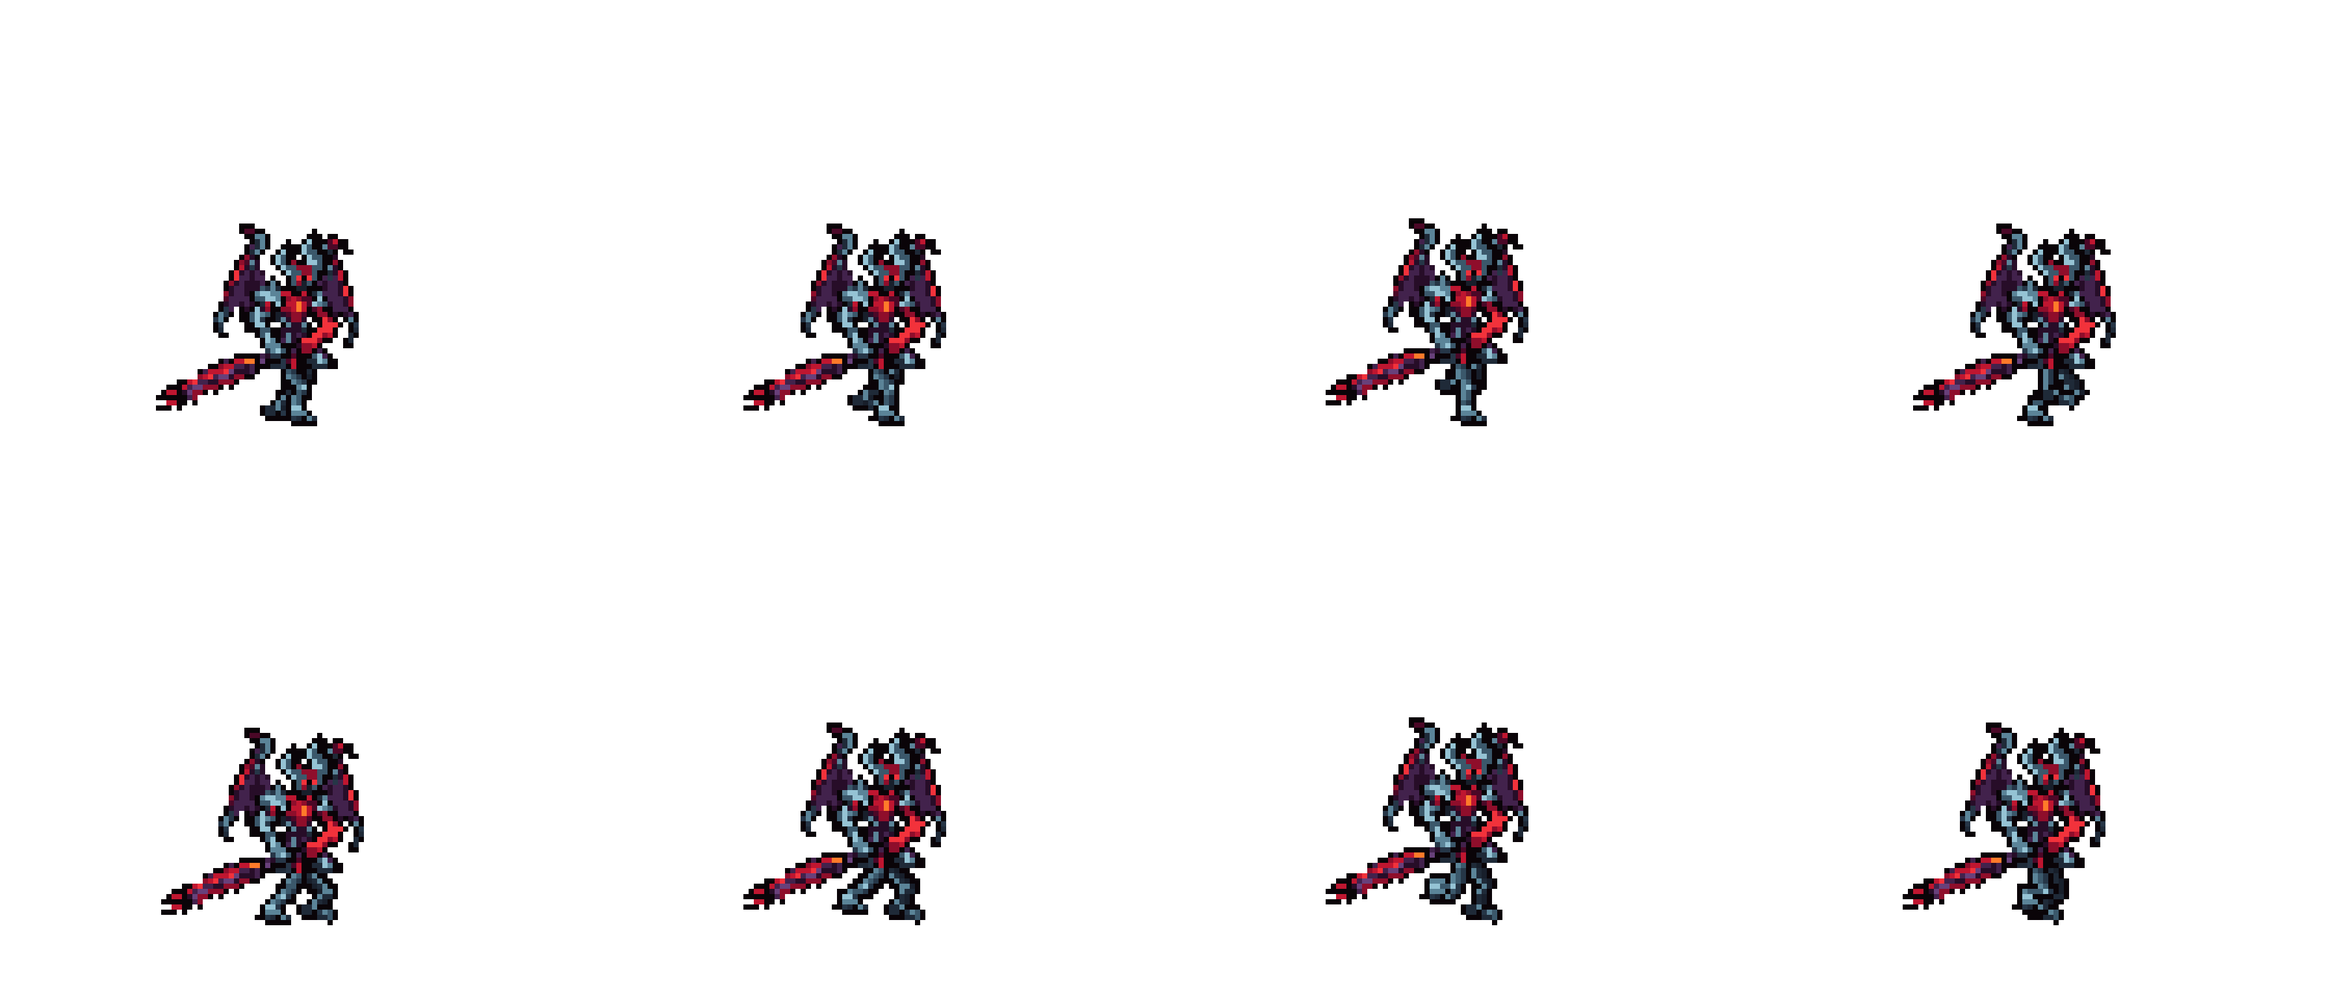
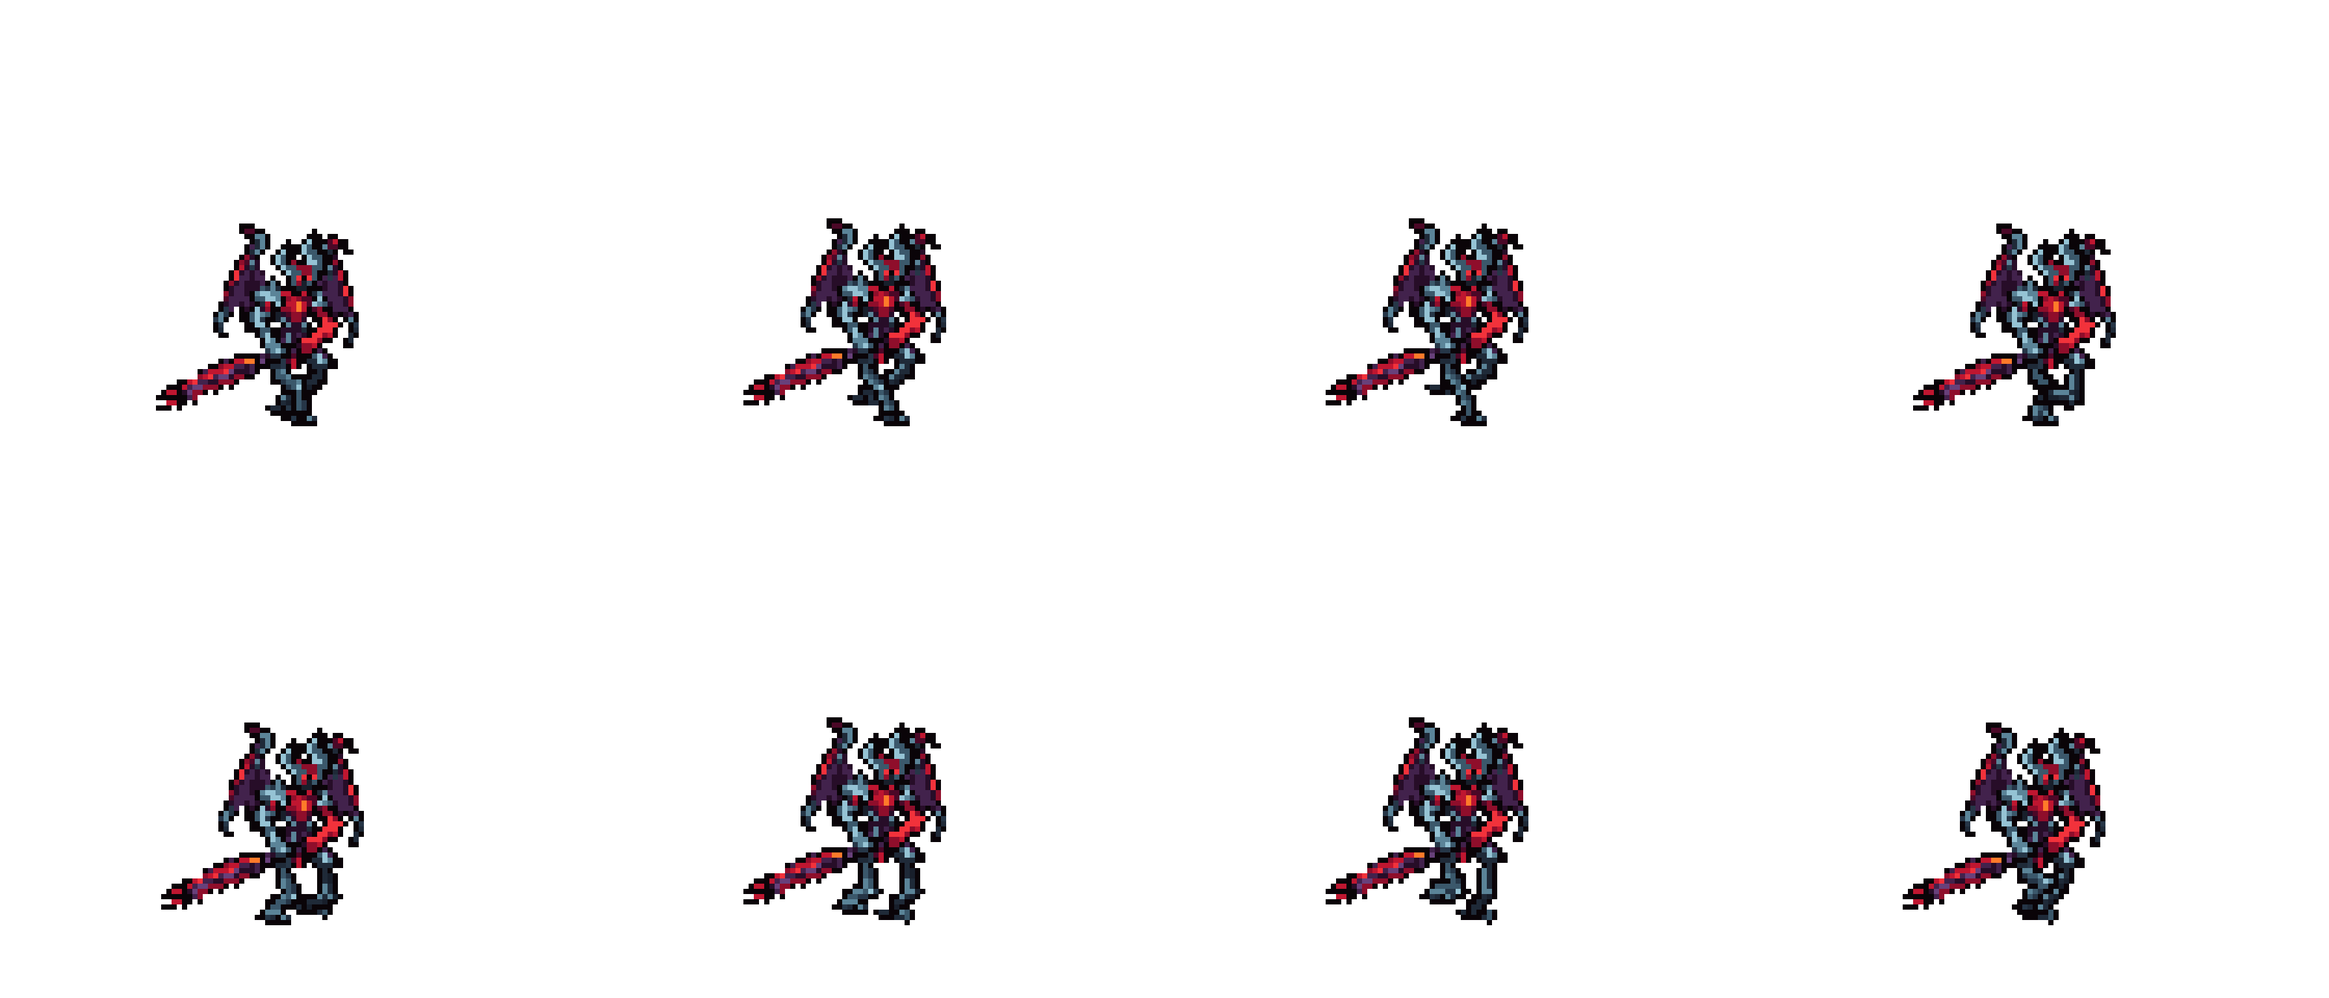
Aatrox: run legs from the idle's hips (interim); chain 0.2.2 ring check; redo2 prompts
- The run's legs leave the waist where the idle's do (hips 8 apart, no
  skirt: 「怎么看起来剑魔像穿了裙子？？」), knees by two-bone IK on League's
  feet, the shin drawn over its boot. The user still finds it off and asked
  for Codex (REDO2.md: the legs on a per-frame skeleton, plus World
  Ender's attack and Q casts with League's wings added).
- league_aatrox_chain 0.2.2: w_tether lasts 6 ticks and the watch logs on
  tick 4 whether the data removed it (RING played / NOT PLAYED), to tell
  an unread flag from an unseen picture (「W在游戏里还是看不出」); the log
  banner prints the crate version.

diff --git a/tools/art/rig_aatrox.py b/tools/art/rig_aatrox.py
@@ -84,21 +84,24 @@ ULT_ARMS = [None, (165, (53, 83), (72, 79), (75, 80)), (150, (49, 81), (73, 78),
 FAR_ROOT = (69, 75)                  # where the drawn wings join the back (behind the shoulders)
 NEAR_ROOT = (58, 75)
 # the run (League's Unsheath_run01, 8 frames, 2026-10-04): the sheared run (each whole leg leaned) broke at the knee as
-# it played (the user: 「是膝盖那和下面的小腿 走路的时候感觉脱节的」) and splayed its toes. Now League's own legs:
-# tools/lol/pose_joints.py assets/source/aatrox/poses.json --tag run --joints L_Hip,L_KneeLower,L_Foot,L_Toe,R_Hip,
-# R_KneeLower,R_Foot,R_Toe --json assets/source/aatrox/run_joints.json (game px from the pivot), each leg's knee and ankle
-# taken from its hip and scaled to the design's leg (LEG_SCALE: across 0.65, down 0.5 - the hip 10 rows over the
-# soles), drawn as one limb through the knee (thigh LEG_CORE, shin LEG_SHIN thick) in the leg's own colours with a light
-# on the knee plate, and the leg's own boot from the design at the ankle (the lit one mirrored: toe forward). League's
-# L leg is the design's dark right-hand one, R the lit left-hand one; the hips 3 apart under the skirt so the feet
-# cross (dark minus lit foot: -3, -4, -2, +4, +9, +10, +9, +3); the knee nearer the camera (League's z) drawn over the
-# other with its outline; the lowest sole on the soles' row (the body down 0-2 rows with it).
+# it played (the user: 「是膝盖那和下面的小腿 走路的时候感觉脱节的」); legs from hips 3 apart then read as a skirt under the
+# wide waist (「怎么看起来剑魔像穿了裙子？？」, the idle's legs pointed at as right). Now: the hips where the idle's legs
+# leave the waist (LEG_HIPS, 8 apart: the thighs stay apart), the feet where League's run puts them under the body
+# (tools/lol/pose_joints.py assets/source/aatrox/poses.json --tag run --joints L_Hip,L_KneeLower,L_Foot,L_Toe,R_Hip,
+# R_KneeLower,R_Foot,R_Toe --json assets/source/aatrox/run_joints.json: game px from the pivot; across from the hips'
+# middle x LEG_SCALE[0], down from each hip x LEG_SCALE[1]), each knee by two-bone IK (THIGH, SHIN) bending forward;
+# each leg one limb through its knee (LEG_CORE, LEG_SHIN thick: the idle's 2-3 squares) in its own colours with a
+# light on the knee plate; its own boot's foot (the lit one mirrored, toe forward) drawn first and the shin over its
+# top. League's L leg is the design's dark right-hand one, R the lit left-hand one; dark minus lit foot: -3, -4, -4,
+# +2, +7, +9, +7, +2 (they cross, 9 apart at most); the knee nearer the camera (League's z) drawn over the other with
+# its outline; the lowest sole on the soles' row (the body down 0-1 rows with it).
 RUN_JOINTS = os.path.join(ROOT, "assets", "source", "aatrox", "run_joints.json")
-LEG_HIPS = {"L": (65.5, 88.5), "R": (62.5, 88.5)}
+LEG_HIPS = {"L": (68.0, 88.5), "R": (60.0, 88.5)}
 LEG_MATS = {"L": ("2", "0", "d"), "R": ("2", "1", "e")}
 LEG_KNEE = {"L": "2", "R": "3"}
-LEG_SCALE = (0.65, 0.5)
-LEG_CORE, LEG_SHIN = 1.2, 0.95
+LEG_SCALE = (0.65, 0.55)
+THIGH, SHIN = 4.6, 4.2
+LEG_CORE, LEG_SHIN = 1.0, 0.85
 LEG_TOP = 88                         # the legs below this row move; the hips and the skirt above stay
 NEAR_COLS = (48, 64)                 # the lit (left) leg's columns, the dark (right) leg's
 FAR_COLS = (64, 80)
@@ -433,16 +436,16 @@ def frame(tag, i, des, sm):
 
 
 def boots(des):
-    """The design's boots, toe forward (the dark leg's as drawn, the lit one's mirrored), with their ankle (the top
-    row's middle)."""
+    """The design's feet, toe forward (the dark leg's as drawn, the lit one's mirrored), with their ankle (the middle of
+    the top row's coloured squares)."""
     out = {}
     for side, (c0, c1), flip in (("L", FAR_COLS, False), ("R", NEAR_COLS, True)):
-        part = des[96:100, c0:c1].copy()
+        part = des[97:100, c0:c1].copy()                 # the foot: the boot's last three rows
         if flip:
             part = part[:, ::-1]
         cols = np.nonzero((part[..., 3] > 0).any(0))[0]
         part = part[:, cols.min():cols.max() + 1]
-        top = np.nonzero(part[0, :, 3] > 0)[0]
+        top = np.nonzero((part[0, :, 3] > 0) & ~(part[0, :, :3] == D.COL["o"]).all(-1))[0]
         out[side] = (part, ((top.min() + top.max()) / 2.0, 0.0))
     return out
 
@@ -490,31 +493,48 @@ def stamp_boot(a, part, anchor, at, ring_over):
             a[y, x] = part[r, c]
 
 
+def knee_ik(hip, foot):
+    """The knee for a hip and an ankle (THIGH, SHIN), bending forward; an ankle out of reach is pulled in."""
+    v = foot - hip
+    d = float(np.hypot(*v))
+    if d > THIGH + SHIN - 0.05:
+        d = THIGH + SHIN - 0.05
+        foot = hip + v / np.hypot(*v) * d
+    u = (foot - hip) / d
+    a = (THIGH * THIGH - SHIN * SHIN + d * d) / (2 * d)
+    n = np.array([-u[1], u[0]])
+    if n[0] < 0:
+        n = -n
+    return hip + u * a + n * math.sqrt(max(0.0, THIGH * THIGH - a * a)), foot
+
+
 def run(i, des, sm):
     """League's run legs on the design (RUN_JOINTS): the upper body, the arms holding the blade, the wings and the head
     are the design's own; each leg one limb through its knee, its boot at the ankle, the nearer one over the other."""
     with open(lp(RUN_JOINTS), encoding="utf-8") as f:
         j = json.load(f)[i]["joints"]
     bt = boots(des)
+    hmid = (np.array(j["L_Hip"][:2]) + np.array(j["R_Hip"][:2])) / 2
+    mid = (LEG_HIPS["L"][0] + LEG_HIPS["R"][0]) / 2
     legs = []
     for s in ("L", "R"):
-        H, K, F = (np.array(j[f"{s}_{n}"][:2]) for n in ("Hip", "KneeLower", "Foot"))
+        F = np.array(j[f"{s}_Foot"][:2])
         hip = np.array(LEG_HIPS[s])
-        k = hip + np.array(LEG_SCALE) * (K - H)
-        ft = hip + np.array(LEG_SCALE) * (F - H)
-        legs.append((j[f"{s}_KneeLower"][2], s, hip, k, ft))
-    low = max(ft[1] + bt[s][0].shape[0] - 1 for _, s, _, _, ft in legs)
+        foot = np.array([mid + LEG_SCALE[0] * (F[0] - hmid[0]), hip[1] + LEG_SCALE[1] * (F[1] - j[f"{s}_Hip"][1])])
+        k, foot = knee_ik(hip, foot)
+        legs.append((j[f"{s}_KneeLower"][2], s, hip, k, foot))
+    low = max(ft[1] + bt[s][0].shape[0] for _, s, _, _, ft in legs)
     dy = int(round(max(-1.0, min(2.0, 99 - low))))
     upper = des.copy()
     upper[LEG_TOP:] = 0
     upper[sm] = des[sm]                                   # the blade hangs below the hips with the fist
     out = np.zeros_like(des)
+    d = np.array([0.0, float(dy)])
     for n, (_, s, hip, k, ft) in enumerate(sorted(legs, key=lambda t: t[0])):
-        d = np.array([0.0, float(dy)])
+        part, anchor = bt[s]
+        stamp_boot(out, part, anchor, ft + d + np.array([0.0, 1.0]), ring_over=n > 0)
         leg_limb(out, [hip + d, k + d, ft + d], LEG_MATS[s], (LEG_CORE, LEG_SHIN), ring_over=n > 0)
         out[int(round(k[1] + dy)), int(round(k[0]))] = rgba(LEG_KNEE[s])     # the knee plate's light
-        part, anchor = bt[s]
-        stamp_boot(out, part, anchor, ft + d, ring_over=n > 0)
     return over(out, upper, 0, dy)
 
 

diff --git a/addons/league_aatrox_chain/src/lib.rs b/addons/league_aatrox_chain/src/lib.rs
@@ -1,4 +1,4 @@
-//! 剑魔 W 锁链附加包 v0.2.1：W「恶火束链」照 League 原版。
+//! 剑魔 W 锁链附加包 v0.2.2：W「恶火束链」照 League 原版。
 //!
 //! 主包的 W（数据）：锁链停在第一个敌人身上（伤害 + 减速 1.5 秒）；打中英雄时在落点放圈，1.5 秒后那个英雄
 //! 再受一次伤害、被拉向剑魔。League 的两条数据写不出来：走出圈锁链就断、拉回的是圈的中心。
@@ -61,6 +61,10 @@ pub const PULL: &str = "league_aatrox_w_pull";
 pub const PULL_C: &str = "league_aatrox_w_pull_c";
 /// 标记留多久：打中时的标记数据层同一 tick 和下一 tick 读，拉回的在 `READ_AT` 读。
 pub const HIT_T: usize = 3;
+/// `w_tether` 留得久一点：数据播圈时把它删掉（RemoveCasterBuff），`watch` 在第 `SEEN_AT` tick 看它还在不在，
+/// 写进日志——游戏里「W 看不出」（2026-10-04）时分清是数据没读到本包的标记，还是画面没显示（v0.2.2）。
+pub const TETHER_T: usize = 6;
+pub const SEEN_AT: usize = 4;
 pub const PULL_T: usize = 6;
 /// 拉回的速度（每 tick），到圈心这么近就算到了。
 pub const PULL_SPEED: f64 = 2_500.0;
@@ -309,7 +313,7 @@ fn tether(sim: &mut StableSim<'_>, me: usize, t: usize, kind: Kind) {
     let c = found.unwrap_or_else(|| center_of(here, from));
     let snap = sim.tick() + HOLD;
     sim.add_buff(t, &BuffV1::timed(&on_name(c, me, snap), HOLD + 5));
-    flag(sim, me, TETHER, HIT_T);
+    flag(sim, me, TETHER, TETHER_T);
     let linked = link(sim, me, here, c);
     queue(sim, "watch", t, pos_input(c), 1);
     wlog(format!(
@@ -367,6 +371,11 @@ fn watch(sim: &mut StableSim<'_>, me: usize, input: InputTargetV1) {
     }
     let here = fpos(e.pos());
     let d = dist(here, c);
+    if HOLD.saturating_sub(snap.saturating_sub(tick)) == SEEN_AT {
+        let left = names(sim, a).iter().any(|n| n == TETHER);
+        wlog(format!("{} RING {}: the data {} the w_tether flag", head(sim, me),
+                     if left { "NOT PLAYED" } else { "played" }, if left { "did not read" } else { "read and removed" }));
+    }
     if outside(here, c) {
         sim.entity_remove_buff(me, &name);
         let on_me = InputTargetV1::target(me);
@@ -502,7 +511,8 @@ fn init(host: &StableHost) -> StableMod {
     let _ = std::fs::rename(&*LOG_PATH, LOG_PATH.with_extension("prev.log"));
     let v = host.game_version();
     wlog(format!(
-        "=== {ID} v0.2 (League's Infernal Chains; pictures and hits in data) loaded: game {}.{}.{} abi {} log={} ===",
+        "=== {ID} v{} (League's Infernal Chains; pictures and hits in data) loaded: game {}.{}.{} abi {} log={} ===",
+        env!("CARGO_PKG_VERSION"),
         v.major,
         v.minor,
         v.patch,

diff --git a/assets/source/aatrox/REDO2.md b/assets/source/aatrox/REDO2.md
@@ -1,0 +1,61 @@
+# 剑魔：重画跑步的腿 + 开大期间的普攻和 Q 加翅膀（给 Codex 的补画包）
+
+> 上一包（aatrox_redo_pack）的 Q1–Q3、变身和翅膀循环用户已经通过（「其他都很完美」），**这些不要动**。这次只有两件事：
+> 1. **跑步的腿**（`aatrox_run.png`）：上一包交回的跑步右脚 8 帧都钉在原地（`run/wrong/codex_first_one_foot_fixed.png`），没采用；之后我自己做的三版也都被用户否了：
+>    - `run/wrong/v2_knee_slides.png`：每条腿整条斜着推，走起来**膝盖那块护甲和下面的小腿一格一格错开**（用户：「是膝盖那和下面的小腿 走路的时候感觉脱节的」）；
+>    - `run/wrong/v3_skirt.png`：两条腿从腰的正中间出来，腰两边宽的胯甲悬在外面，**看起来像穿了裙子**（用户：「怎么看起来剑魔像穿了裙子？？」）；用户指着待机说「这样才是对的吧」——**腿要像待机那样，从腰的两侧分开下来**；
+>    - `run/wrong/v4.png`：从两侧下来、按关节画的细管子腿，用户：「第四版还是不对 不然让codex重画」。
+> 2. **开大期间的普攻和 Q**：开大后剑魔待机和跑步换不了（引擎限制，背后有持续的翅膀光环），但普攻、被动强化攻击和三段 Q 可以换成「开大版」：**就是已经通过的这几张动作，身体一个像素都不改，只在背后加上原版开大时的暗红长翼**，翅膀随动作扇动。
+
+## 要交的 6 张图
+
+| 文件 | 帧（毫秒） | 排版（列 × 行，像素） |
+|---|---|---|
+| `aatrox_run.png` | 8 帧：125 125 125 125 125 125 125 125 | 4 x 2，3584 x 1536 |
+| `aatrox_attack_r.png` | 6 帧：70 65 65 80 80 73 | 3 x 2，2688 x 1536 |
+| `aatrox_attack_p_r.png` | 6 帧：100 100 100 100 100 100 | 3 x 2，2688 x 1536 |
+| `aatrox_skill_r.png` | 8 帧：100 150 150 100 100 100 50 50 | 4 x 2，3584 x 1536 |
+| `aatrox_q2_r.png` | 8 帧：100 150 150 100 100 100 50 50 | 4 x 2，3584 x 1536 |
+| `aatrox_q3_r.png` | 8 帧：100 150 150 100 100 100 50 50 | 4 x 2，3584 x 1536 |
+
+格子都是 112×96 格（8 倍 = 896×768 像素），**排版、格子、站位点和对应的已有图完全一样**（`run/aatrox_run_body.png`、`rform/aatrox_<动作>_now.png`）。脚底线 = 站位点下面第 11 行，以下什么都不能画。
+
+## 一、跑步的腿（`aatrox_run.png`）
+
+- **底图** `run/aatrox_run_body.png`：8 帧，只有上半身和大剑（腰带以下的腿已经擦掉）。**底图上的每个像素都原样保留**，只在腰带下面画两条腿；大剑压在腿上面（剑和腿重叠的地方显示剑）。
+- **腿的样子照待机**（`run/aatrox_idle.png`、`design/aatrox_legs.png`）：
+  - 屏幕左边那条是**亮色腿**（钢青色护腿，膝盖有亮色护膝），右边那条是**暗色腿**（深蓝色，护膝一点亮边）；两条腿各用待机时自己的颜色，不要换色、不要近亮远暗；
+  - 粗细和待机一样：大腿约 3 格、小腿 2–3 格，外面 1 格近黑描边；
+  - **两条大腿从腰的两侧出来**（亮色腿在左边胯甲下、暗色腿在右边胯甲下），大腿之间有缝，**不要从腰的正中间出来，不要像裙子**；
+  - **大腿、护膝、小腿每一帧都是连着的一整条**，膝盖处弯折但不错开、不断开；
+  - 靴子是待机的爪形铁靴，**两只靴尖都朝右（前进方向）**，靴口和小腿接上，不要错位。
+- **腿的位置照骨架** `run/aatrox_run_skeleton.png`：每帧画了两条腿的髋、膝、踝三个点（蓝 = 亮色腿，橙 = 暗色腿，末端的短线指向靴尖）。按这些点画腿：膝盖在膝盖点、脚踝在脚踝点，脚底踩在红线上（抬起的那只脚离地）。两只脚在身体下面前后交叉：第 1–3 帧暗色脚在后、亮色脚在前，第 4–8 帧倒过来。
+- 动作感觉看 `run/lol_pose_run.png`（英雄联盟原版跑步）：重心略前倾、后脚蹬地、前脚抬膝。
+
+## 二、开大版的普攻和 Q（`aatrox_attack_r.png`、`aatrox_attack_p_r.png`、`aatrox_skill_r.png`、`aatrox_q2_r.png`、`aatrox_q3_r.png`）
+
+- **底图就是已经通过的动作**：`rform/aatrox_attack_now.png`（普攻）、`aatrox_attack_p_now.png`（被动强化攻击）、`aatrox_skill_now.png`（Q1）、`aatrox_q2_now.png`、`aatrox_q3_now.png`。**身体、头、剑、腿的每个像素都不改**，同样的格子、同样的位置。
+- **只加翅膀**：原版开大时的暗红长膜翼，样子照 `rform/aatrox_rwings.png`（开大期间一直跟着他的翅膀循环）和 `rform/aatrox_ult.png`（变身），颜色只用暗红、血红亮边、近黑描边（色板里的 `#4B0827 #8F0E2B #BF1630 #F2323B #0A0408`），**不要紫色、不要火焰、不要平板多边形**。
+  - 翅膀从**肩胛**（背后、两肩之间）长出来，画在身体**后面**（身体压住翅膀根）；
+  - 每帧翅膀跟着动作动，参考原版 `rform/lol_ULT_Attack1.png`、`lol_ULT_Q1.png`、`lol_ULT_Q2.png`、`lol_ULT_Q3.png`（原版开大时的普攻和 Q，每格一帧）：**前摇时翅膀收拢、往下垂；砍中的那一帧翅膀向上、向后猛地张开；收招时翅膀拖在身后，慢慢垂下**；
+  - 翅膀大小和翅膀循环差不多（每只翼展约 16–22 格），张开最大时也不要超出格子；
+  - 身体跳起的帧（Q1 拔高、Q3 跃起）翅膀跟着身体一起抬高；
+  - 第一帧和最后一帧的翅膀和 `aatrox_rwings.png` 第 1 帧差不多（下垂在身体两侧），这样和开大期间的翅膀循环接得上。
+
+## 共同规则
+
+- 每个像素一个 8×8 方块，对齐网格；透明度只有 0 和 255；只用造型的 15 种颜色：`#0A0408 #270D28 #181F2B #4B0827 #1F2A38 #263647 #42224C #8F0E2B #3B586B #BF1630 #68407A #F2323B #5B8498 #FF7A2A #95C3D4`。
+- 外轮廓 1 格近黑描边（`#0A0408`），不要第二圈黑、不要零散的黑格、不要抖动噪点、不要脱离主体的碎块。
+- 头、身体、大剑和底图逐格一样（跑步改腰带以下，开大版只加翅膀）。
+- 脚底线以下没有像素；背景透明（做不到时用纯绿 `#00FF00`，不要洋红）；不要网格线、文字、编号、参考线（骨架图上的线和点都不要画进去）。
+
+## 交付
+
+放在 **`outputs/aatrox-redo2/`**：6 张图（8 倍，和底图同尺寸）、`manifest.json`（每帧格子、站位点、不透明范围）、`preview.png`，打包成 `outputs/aatrox_redo2_done.zip`，**最后写 `HANDOFF.md`**（每张怎么做的、哪里没做到）——写完 HANDOFF 就算交付。
+
+## 交回前自查
+
+- [ ] 跑步：底图（上半身、大剑）逐格没变；两条大腿从腰两侧出来、中间有缝，不像裙子；每帧大腿—护膝—小腿连着；靴尖都朝右、和小腿接上；膝盖、脚踝在骨架点上；两只脚在第 3→4 帧和第 8→1 帧交换前后；
+- [ ] 两条腿的颜色和粗细和待机一样，亮色腿在左、暗色腿在右；
+- [ ] 开大版：底图逐格没变，只多了身体后面的暗红翅膀；翅膀在前摇收拢、砍中张开、收招下垂；首尾帧和翅膀循环第 1 帧接得上；
+- [ ] 没有碎块、没有零散黑格、脚底线以下没有像素、只用色板颜色。

diff --git a/addons/league_aatrox_chain/README.md b/addons/league_aatrox_chain/README.md
@@ -1,4 +1,4 @@
-# 剑魔 W 锁链附加包（测试版 v0.2.1）
+# 剑魔 W 锁链附加包（测试版 v0.2.2）
 
 主包 `league` 保持纯数据。主包里剑魔的 W「恶火束链」：锁链停在第一个敌人身上（40 + 40% 攻击力、减速 25% 1.5 秒）；
 锁链旁边有敌方英雄时在落点放圈，1.5 秒后那个英雄再受一次伤害、被拉向剑魔。League 的两条数据写不出来：
@@ -34,6 +34,8 @@
 6. 日志在 `%APPDATA%\TeamSamoyed\TeamfightManager2\data\league_aatrox_chain.log`，每次启动游戏重写（上一次的留在 `.prev.log`）：
    - `TETHER Champion #… at (x,y) ring (x,y) (the chain's stop; Aatrox (x,y))`：锁住谁、圈在哪；
    - `BREAK: 23500 from the ring's centre (+1200, -23400), 30 ticks before the pull`：走出圈，锁链断了（括号里是离圈心的横向、上下）；
+   - `RING played` / `RING NOT PLAYED`（v0.2.2）：锁住后第 4 tick，数据有没有读到 `w_tether` 播圈（数据播圈时把标记删掉）；
+     游戏里「W 看不出」时先看这一行：NOT PLAYED = 数据没读到本包的标记，played = 圈播了、是画面的问题；
    - `PULL: … from the centre, pulled in … ticks; the second hit flagged on Aatrox`：拉回，第二下交给数据；
    - `DRAG: stopped … short of the centre, pushed again …`：拉回被截短，补推。
 
